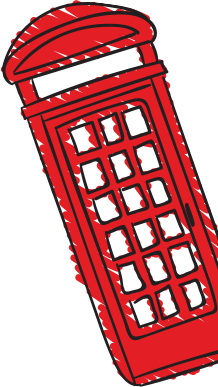
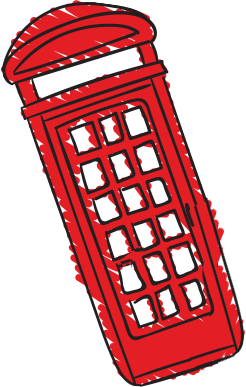
1
1

diff --git a/css/main.css b/css/main.css
@@ -1702,8 +1702,8 @@ content:'';
 width: 450px;
 height: 260px;
 /*left:-96px;*/
-top:-60px;
-left: -75px;
+top:-80px;
+left: -95px;
 position: absolute;
 background: url('../images/clock.png');
 background-repeat: no-repeat;
@@ -1735,7 +1735,7 @@ z-index: -20;
 }
 .telephone-red:after{
 content:'';
-width: 370px;
+width: 246px;
 height: 460px;
 left:320px;
 top:0px;
